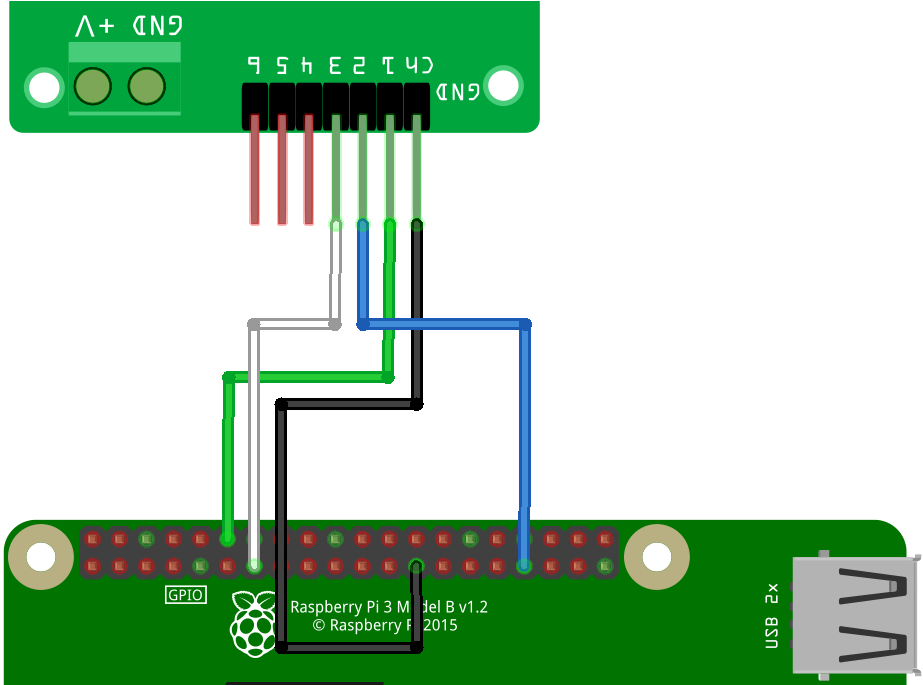
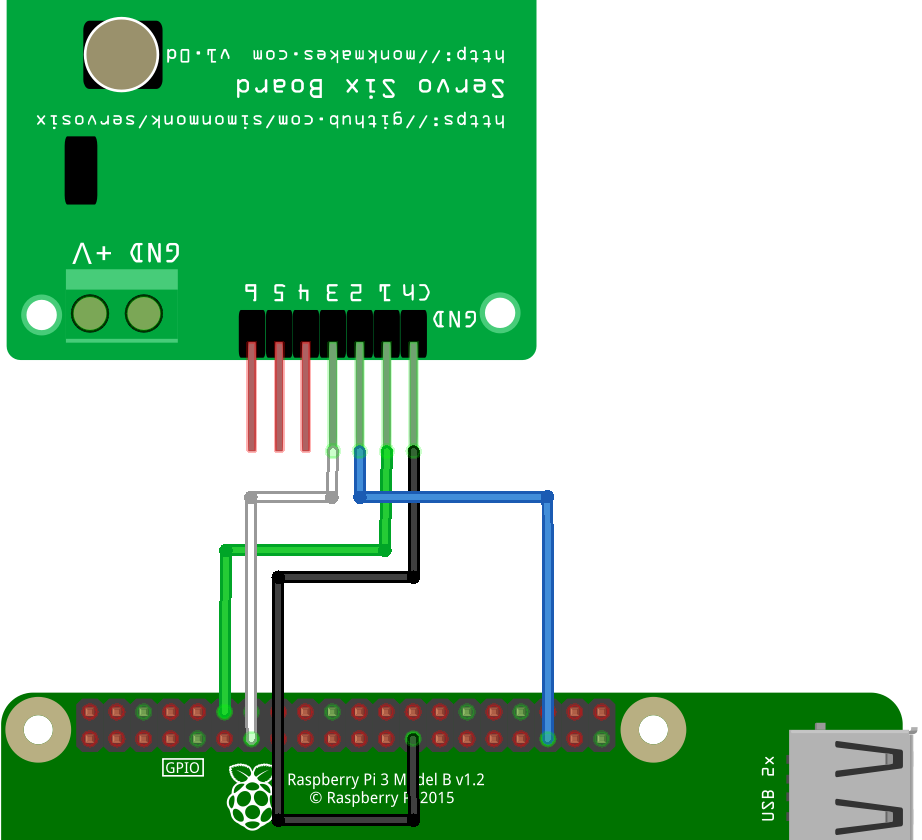
Working on Workshop

diff --git a/workshop/07-read-button.md b/workshop/07-read-button.md
@@ -1,0 +1,66 @@
+# Read a Button #
+
+- Back in your project in VS Code
+- Remove the existing code you have in the `static void main` sub and add in the following code after the `Console.WriteLine("Hello World")` Line;
+
+    ```cs
+    GpioController controller = new GpioController(PinNumberingScheme.Board);
+    var pin = 10;
+    var buttonPin = 26;
+    
+    controller.OpenPin(pin, PinMode.Output);
+    controller.OpenPin(buttonPin, PinMode.InputPullUp);            
+
+    try
+    {
+        while (true)
+        {
+            if (controller.Read(buttonPin) == false)
+            {
+                controller.Write(pin, PinValue.High);
+            }
+            else
+            {
+                controller.Write(pin, PinValue.Low);
+            }
+        }
+    }
+    finally
+    {
+        controller.ClosePin(pin);
+    }
+    ```
+
+- This section of code;
+    - Creates a new GPIO Controller Object using the `Board` Pin Numbering Scheme as in the previous example.
+    - Defines a Pin Number variable and assigns pin 10 to it, this is where we've connected our LED.
+    - Defines a Button Pin variable and assigns pin 26 to it, this is where we've connected our Button.
+    - Opens the LED Pin as an Output
+    - Opens the Button Pin as an Input
+        - Note: This line also specifies that it's a `InputPullUp` pin. This means that, internally, the Raspberry Pi will pull this pin up to a high level. You can see that we've connected the other side to 0v or GND. So, when the button is not pressed it will be pulled up to a High Level. When the button is pressed it will then become low.
+    - Creates a loop.
+    - In the loop;
+        - We read the button Pin using `controller.Read(buttonPin)... 
+            - If the button is pressed, this line will return a false... So we turn the LED on.
+            - If the button isn't pressed, this line will return a true... So we turn the LED off.
+    - A finally section then closes the LED pin freeing any resources before the program exits.
+
+- Save the file
+- In an SSH Session, make sure you're in the `pirobot` directory
+- Run the application with;
+
+    ```
+    dotnet run
+    ```
+
+- You should now be able to press the button and turn the LED on.
+
+<p align="center">
+    <img src="images/07-read-button.gif" width="500px" >
+</p>
+
+- Exit the program with ctrl+c
+
+| Previous | Next |
+| -------- | ---- |
+| [< Step 6 - Flash LED](05-build-circuit-led-and-button.md) | [Step 7 - Read Button >](07-read-button.md) |

diff --git a/workshop/09-move-servos.md b/workshop/09-move-servos.md
@@ -1,0 +1,66 @@
+# Read a Button #
+
+- Back in your project in VS Code
+- Remove the existing code you have in the `static void main` sub and add in the following code after the `Console.WriteLine("Hello World")` Line;
+
+    ```cs
+    GpioController controller = new GpioController(PinNumberingScheme.Board);
+    var pin = 10;
+    var buttonPin = 26;
+    
+    controller.OpenPin(pin, PinMode.Output);
+    controller.OpenPin(buttonPin, PinMode.InputPullUp);            
+
+    try
+    {
+        while (true)
+        {
+            if (controller.Read(buttonPin) == false)
+            {
+                controller.Write(pin, PinValue.High);
+            }
+            else
+            {
+                controller.Write(pin, PinValue.Low);
+            }
+        }
+    }
+    finally
+    {
+        controller.ClosePin(pin);
+    }
+    ```
+
+- This section of code;
+    - Creates a new GPIO Controller Object using the `Board` Pin Numbering Scheme as in the previous example.
+    - Defines a Pin Number variable and assigns pin 10 to it, this is where we've connected our LED.
+    - Defines a Button Pin variable and assigns pin 26 to it, this is where we've connected our Button.
+    - Opens the LED Pin as an Output
+    - Opens the Button Pin as an Input
+        - Note: This line also specifies that it's a `InputPullUp` pin. This means that, internally, the Raspberry Pi will pull this pin up to a high level. You can see that we've connected the other side to 0v or GND. So, when the button is not pressed it will be pulled up to a High Level. When the button is pressed it will then become low.
+    - Creates a loop.
+    - In the loop;
+        - We read the button Pin using `controller.Read(buttonPin)... 
+            - If the button is pressed, this line will return a false... So we turn the LED on.
+            - If the button isn't pressed, this line will return a true... So we turn the LED off.
+    - A finally section then closes the LED pin freeing any resources before the program exits.
+
+- Save the file
+- In an SSH Session, make sure you're in the `pirobot` directory
+- Run the application with;
+
+    ```
+    dotnet run
+    ```
+
+- You should now be able to press the button and turn the LED on.
+
+<p align="center">
+    <img src="images/07-read-button.gif" width="500px" >
+</p>
+
+- Exit the program with ctrl+c
+
+| Previous | Next |
+| -------- | ---- |
+| [< Step 6 - Flash LED](05-build-circuit-led-and-button.md) | [Step 7 - Read Button >](07-read-button.md) |

diff --git a/workshop/README.md b/workshop/README.md
@@ -23,10 +23,10 @@ Finally we'll build out a simple Blazor and SignalR app to control our robot rem
 | 3 | [Install .NET 5](03-install-dot-net-5.md) | 
 | 4 | [Create Pi Robot Project](04-create-pi-robot-project.md) | 
 | 5 | [Build the Circuit - LED and Button](05-build-circuit-led-and-button.md) | 
-| 6 | [Flash LEDs](06-flash-leds.md) | 
+| 6 | [Flash LED](06-flash-led.md) | 
 | 7 | [Read a Button](07-read-button.md) | 
 | 8 | [Build the Circuit - Servos](08-build-circuit-Servos.md) | 
-| 9 | [Enable SSH](01-enable-ssh.md) | 
+| 9 | [Servo Demo](09-servo-demo.md) | 
 
 ## Shopping List
 

diff --git a/workshop/08-build-circuit-Servos.md b/workshop/08-build-circuit-Servos.md
@@ -24,6 +24,12 @@
     <img src="images/07-build-circuit-driver.png" width="500px" >
 </p>
 
+| Raspberry Pi Pin | Servo Driver Board Pin |
+| - | - |
+| 25 | GND |
+| 1  | 12 |
+| 2  | 35 |
+| 3  | 13 |
 
 - Connect the Servos to the Servo Driver Board as follows;
 
@@ -31,6 +37,7 @@
     <img src="images/07-build-circuit-servos.png" width="500px" >
 </p>
 
+- Connect each Servo with it's orange or yellow wire connected to the C pin
 
 | Previous | Next |
 | -------- | ---- |

diff --git a/workshop/06-flash-led.md b/workshop/06-flash-led.md
@@ -53,6 +53,7 @@
     - Creates a new GPIO Controller Object using the `Board` Pin Numbering Scheme.
     - Defines a Pin Number variable and assigns pin 10 to it, this is where we've connected our LED.
     - Defines a value for a delay between turning the LED on and off of 300ms
+    - Opens the LED Pin as an Output
     - Creates a loop.
     - In the loop;
         - The LED pin is set to a High Value, turning it on.

diff --git a/workshop/05-build-circuit-led-and-button.md b/workshop/05-build-circuit-led-and-button.md
@@ -35,4 +35,4 @@
 
 | Previous | Next |
 | -------- | ---- |
-| [< Step 4 - Create Pi Robot Project](04-create-pi-robot-project.md) | [Step 6 - Flash LEDs >](06-flash-leds.md) |
+| [< Step 4 - Create Pi Robot Project](04-create-pi-robot-project.md) | [Step 6 - Flash LED >](06-flash-led.md) |
